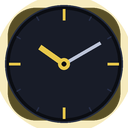
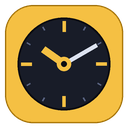
first commit

diff --git a/popup.js b/popup.js
@@ -231,12 +231,6 @@ function updateScale(h24) {
   );
 }
 
-// ── Live wall-clock helper ───────────────────────────────────────────────────
-function getLiveNow() {
-  const n = new Date();
-  return { h: n.getHours(), m: n.getMinutes(), s: n.getSeconds() };
-}
-
 // ── Time formatting ──────────────────────────────────────────────────────────
 function fmt(totalMins) {
   let h = Math.floor(totalMins / 60) % 24;
@@ -248,12 +242,35 @@ function fmt(totalMins) {
   return { t: String(h % 12 || 12).padStart(2, '0') + ':' + m, a: h >= 12 ? 'PM' : 'AM' };
 }
 
-// Header always shows live local (browser) time — independent of zones list.
-function updateHeader(t) {
-  const totalMin = t.h * 60 + t.m;
-  const { t: timeStr, a: ampm } = fmt(totalMin);
+// Header follows the ANCHOR zone (first card) so it stays semantically in sync
+// with the slider and the highlighted card. The user's actual browser-local
+// time is irrelevant for the widget's reference frame.
+function updateHeader(now = new Date()) {
+  const anchor   = PRESET_BY_ID[zones[0]];
+  const utcMins  = now.getUTCHours() * 60 + now.getUTCMinutes();
+  const aOff     = anchorOffset();
+  const aMins    = ((utcMins + aOff) % 1440 + 1440) % 1440;
+  const { t: timeStr, a: ampm } = fmt(aMins);
   document.getElementById('headerTime').textContent = timeStr;
   document.getElementById('headerAmpm').textContent = ampm;
+
+  const tzEl = document.getElementById('headerTz');
+  if (tzEl && anchor) tzEl.textContent = nameFor(anchor, now);
+
+  // Mirror the per-card ADJ badge in the header when the anchor has an
+  // active manual override — keeps the "trust this displayed time" signal
+  // consistent everywhere.
+  const adjEl = document.getElementById('headerAdj');
+  if (adjEl) {
+    const adj = anchor ? overrideFor(anchor.id) : 0;
+    if (adj) {
+      adjEl.textContent = 'ADJ ' + formatAdj(adj);
+      adjEl.hidden = false;
+    } else {
+      adjEl.textContent = '';
+      adjEl.hidden = true;
+    }
+  }
 }
 
 // ── Zone cards (dynamic) ─────────────────────────────────────────────────────
@@ -370,7 +387,7 @@ function setMode(m) {
   clockMode = m;
   document.getElementById('btn12').classList.toggle('on', m === 12);
   document.getElementById('btn24').classList.toggle('on', m === 24);
-  updateHeader(getLiveNow());
+  updateHeader();
   refreshFromSlider();
   store.set({ [STORAGE_KEYS.mode]: m });
 }
@@ -484,6 +501,10 @@ function renderEditor() {
         setOverride(id, 0);
       } else return;
       renderEditor();
+      // Snap the header/slider to the new anchor state without waiting for
+      // the 1-second tick — keeps the editor feeling reactive.
+      updateHeader();
+      if (sliderMin === null) refreshFromSlider();
     });
   });
   const addBtn = document.getElementById('zoneAddBtn');
@@ -518,6 +539,7 @@ function exitEditMode() {
   document.getElementById('zoneEditBtn').textContent = '⚙ EDIT';
   renderZoneCards();
   refreshFromSlider();
+  updateHeader();
 }
 
 function toggleEditMode() {
@@ -528,9 +550,7 @@ function toggleEditMode() {
 // ── 1-second tick loop ───────────────────────────────────────────────────────
 function tick() {
   const now = new Date();
-
-  // Header always shows the user's browser-local wall clock.
-  updateHeader({ h: now.getHours(), m: now.getMinutes(), s: now.getSeconds() });
+  updateHeader(now);
 
   if (sliderMin === null) {
     // Drive everything from UTC so the user's local zone is irrelevant — the

diff --git a/popup.css b/popup.css
@@ -74,6 +74,33 @@ body.light .header-now { color: #7c4a00; }
   text-transform: uppercase;
 }
 
+/* Inline ADJ badge in the header — only shown when the anchor zone has an
+   active manual offset override. Visually matches the per-card badge so the
+   user reads "ADJ" consistently across the whole UI. */
+.header-adj {
+  display: inline-block;
+  margin-left: 8px;
+  padding: 2px 6px;
+  font-family: var(--font-mono);
+  font-size: 10px;
+  font-weight: 700;
+  letter-spacing: 0.06em;
+  border-radius: 4px;
+  vertical-align: middle;
+}
+body.dark .header-adj {
+  color: #f5c043;
+  background: rgba(245, 192, 67, 0.14);
+  border: 1px solid rgba(245, 192, 67, 0.45);
+}
+body.light .header-adj {
+  color: #7c4a00;
+  background: rgba(232, 200, 74, 0.22);
+  border: 1px solid rgba(124, 74, 0, 0.45);
+}
+.header-adj[hidden],
+.header-adj:empty { display: none; }
+
 .header-right { display: flex; align-items: center; gap: 15px; padding-top: 4px; }
 
 .live-dot {

diff --git a/popup.html b/popup.html
@@ -12,7 +12,7 @@
       <div class="header-left">
         <div class="header-now">
           <span id="headerTime">--:--</span><span class="header-ampm" id="headerAmpm">AM</span>
-          <span class="header-tz">IST</span>
+          <span class="header-tz" id="headerTz">IST</span><span class="header-adj" id="headerAdj" hidden></span>
         </div>
       </div>
       <div class="header-right">

diff --git a/scripts/make_icons.py b/scripts/make_icons.py
@@ -1,0 +1,148 @@
+"""Generate Chrono Display extension icons.
+
+Renders an amber-tile analog clock at 16, 48, and 128 px PNG. The bright
+amber background is chosen so the toolbar icon stays visible on BOTH light
+and dark Chrome themes (the previous all-navy design vanished against the
+dark toolbar). Dark navy face + amber hands reads at all sizes including
+16 px.
+
+Run with:
+    python3 scripts/make_icons.py
+"""
+from __future__ import annotations
+
+import math
+import os
+from PIL import Image, ImageDraw
+
+# Palette — high-contrast amber tile + dark navy face.
+TILE_BG    = (245, 192, 67, 255)    # #f5c043 — saturated amber, pops on dark AND light toolbars
+TILE_EDGE  = (160, 110, 0, 255)     # darker amber outline for definition on light backgrounds
+FACE_OUTER = (11, 13, 18, 255)      # #0b0d12 — deep navy face for max contrast against the tile
+FACE_INNER = (24, 28, 40, 255)      # #181c28
+RING       = (245, 192, 67, 255)    # amber ring around face (echoes the tile)
+TICK_Q     = (245, 192, 67, 255)    # amber quarter-hour ticks
+TICK_M     = (90, 100, 130, 255)    # muted gray minor ticks (subtle)
+HAND_H     = (245, 192, 67, 255)    # amber hour hand
+HAND_M     = (220, 226, 240, 255)   # near-white minute hand
+CAP        = (245, 192, 67, 255)
+CAP_I      = (11, 13, 18, 255)
+
+
+def make_icon(size: int) -> Image.Image:
+    """Render the icon at 4x resolution and downsample for crisp anti-aliasing.
+
+    Size-aware design:
+      • 16 px (toolbar): the amber tile must dominate, otherwise the dark
+        clock face blends into Chrome's dark toolbar. We use a tiny face
+        and only the hour hand, with NO inner navy fill — just the dark
+        markings sit on the amber. This reads as "yellow clock badge"
+        from across the screen.
+      • 48 / 128 px (extensions page, Web Store): full design with both
+        hands, hour ticks, and the recessed dark face.
+    """
+    scale = 4
+    s = size * scale
+    img = Image.new("RGBA", (s, s), (0, 0, 0, 0))
+    d = ImageDraw.Draw(img, "RGBA")
+
+    cx = cy = s / 2
+    tiny = size < 32
+
+    # Rounded square amber tile — fills nearly the whole frame so it dominates
+    # the toolbar slot. Thin outline gives definition on light themes.
+    pad = s * 0.04
+    radius = s * 0.22
+    d.rounded_rectangle(
+        [pad, pad, s - pad, s - pad],
+        radius=radius,
+        fill=TILE_BG,
+        outline=TILE_EDGE,
+        width=max(2, int(s * 0.010)),
+    )
+
+    # Face: small at 16 px so the amber stays dominant. At 16 px we draw an
+    # outline-only face (no dark fill) — the dark stroke on amber reads
+    # cleanly without swallowing the tile.
+    r = s * (0.30 if tiny else 0.38)
+    if tiny:
+        d.ellipse(
+            [cx - r, cy - r, cx + r, cy + r],
+            outline=FACE_OUTER,
+            width=max(3, int(s * 0.030)),
+        )
+    else:
+        d.ellipse(
+            [cx - r, cy - r, cx + r, cy + r],
+            fill=FACE_OUTER,
+            outline=RING,
+            width=max(2, int(s * 0.018)),
+        )
+        inner_r = r * 0.92
+        d.ellipse(
+            [cx - inner_r, cy - inner_r, cx + inner_r, cy + inner_r], fill=FACE_INNER
+        )
+
+    # Hour ticks. Skip everything at tiny sizes; show full set at 48/128.
+    if not tiny:
+        for i in range(12):
+            is_q = i % 3 == 0
+            a = (i / 12) * math.tau - math.pi / 2
+            r1 = r * 0.88
+            r2 = r * (0.66 if is_q else 0.80)
+            x1 = cx + math.cos(a) * r1
+            y1 = cy + math.sin(a) * r1
+            x2 = cx + math.cos(a) * r2
+            y2 = cy + math.sin(a) * r2
+            d.line(
+                [x1, y1, x2, y2],
+                fill=TICK_Q if is_q else TICK_M,
+                width=max(2, int(s * (0.028 if is_q else 0.012))),
+            )
+
+    # Hands at the classic 10:10 watch-advertising pose.
+    hour_a   = (10 / 12 + 10 / 720) * math.tau - math.pi / 2
+    minute_a = (10 / 60) * math.tau - math.pi / 2
+
+    def hand(angle: float, length_frac: float, width_frac: float, color):
+        length = r * length_frac
+        x2 = cx + math.cos(angle) * length
+        y2 = cy + math.sin(angle) * length
+        x1 = cx - math.cos(angle) * length * 0.12
+        y1 = cy - math.sin(angle) * length * 0.12
+        d.line([x1, y1, x2, y2], fill=color, width=max(3, int(s * width_frac)))
+
+    if tiny:
+        # Single bold dark hand on amber — high contrast, reads at 16 px.
+        hand(hour_a, 0.78, 0.075, FACE_OUTER)
+    else:
+        hand(hour_a,   0.52, 0.060, HAND_H)
+        hand(minute_a, 0.78, 0.035, HAND_M)
+
+    # Center cap
+    cap_r = max(3, s * (0.045 if tiny else 0.055))
+    d.ellipse(
+        [cx - cap_r, cy - cap_r, cx + cap_r, cy + cap_r],
+        fill=FACE_OUTER if tiny else CAP,
+    )
+    if not tiny:
+        inner_cap_r = cap_r * 0.4
+        d.ellipse(
+            [cx - inner_cap_r, cy - inner_cap_r, cx + inner_cap_r, cy + inner_cap_r],
+            fill=CAP_I,
+        )
+
+    return img.resize((size, size), Image.LANCZOS)
+
+
+def main() -> None:
+    out_dir = os.path.join(os.path.dirname(__file__), "..", "icons")
+    os.makedirs(out_dir, exist_ok=True)
+    for size in (16, 48, 128):
+        path = os.path.join(out_dir, f"icon{size}.png")
+        make_icon(size).save(path, "PNG", optimize=True)
+        print(f"wrote {path}")
+
+
+if __name__ == "__main__":
+    main()